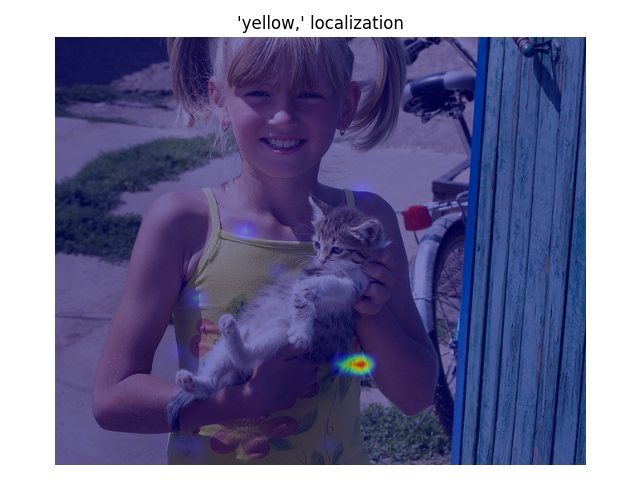
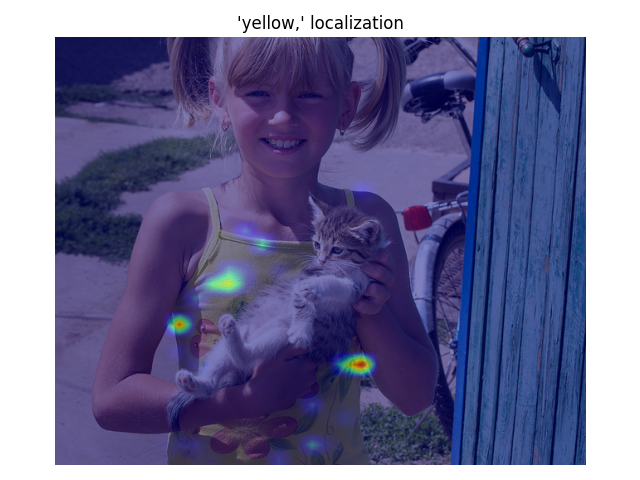
update to max value of logits

diff --git a/internal_confidence.py b/internal_confidence.py
@@ -148,10 +148,18 @@ def plot_conf_scores_log(conf_scores):
 
 
 def plot_conf_segmentation(conf_scores, image, class_="cat"):
-    last_layer_logits = [float(tensor.cpu()) for tensor in conf_scores[-1]]
-    last_layer_logits_reshaped = np.array(last_layer_logits).reshape(32, 32)
-    image_width, image_height = image.size
-    segmentation_resized = (np.array(Image.fromarray(last_layer_logits_reshaped).resize((image_width, image_height), Image.BILINEAR)))
+    ## max value logits
+    stacked_tensors = torch.stack([torch.stack(tensor_list) for tensor_list in conf_scores])
+    max_values = torch.max(stacked_tensors, dim=0).values
+    max_values_list = max_values.tolist()
+    max_values_list_reshaped = np.array(max_values_list).reshape(32, 32)
+    segmentation_resized = (np.array(Image.fromarray(max_values_list_reshaped).resize((image.width, image.height), Image.BILINEAR)))
+
+    ## last layer logits
+    # last_layer_logits = [float(tensor.cpu()) for tensor in conf_scores[-1]]
+    # last_layer_logits_reshaped = np.array(last_layer_logits).reshape(32, 32)
+    # image_width, image_height = image.size
+    # segmentation_resized = (np.array(Image.fromarray(last_layer_logits_reshaped).resize((image_width, image_height), Image.BILINEAR)))
 
 
     plt.imshow(image)
